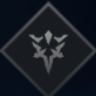
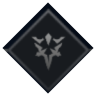
Runas: página em uma coluna, emblemas em losango e ícones revalidados
- Visão em lista unificada: cada posição com ícone e descrição completa, clicável
- Escolha de árvore com emblemas e runas coloridos
- Emblemas das árvores recortados com as pontas e transparentes fora do losango
- Ícones de runas e feitiços servidos com ETag (sem cache velho)

diff --git a/frontend/src/components/RuneEditor.jsx b/frontend/src/components/RuneEditor.jsx
@@ -102,53 +102,39 @@ function ListView({ page, picking, setPicking, set, setPrimaryRune, setPrimaryTr
   const selectedName = picking === 'keystone' ? page.keystone : picking === 'secondary' ? page.secondaryRune
     : picking?.startsWith('p') ? page.primaryRunes[Number(picking.slice(1))] : null;
 
-  return (
-    <div className="rune-list-view">
-      <div className="rune-rail">
-        <button className={`rail-rune${picking === 'keystone' ? ' picking' : ''}`} onClick={() => setPicking('keystone')} title={tip(slots[0].rune) || t('runes.keystone')}>
-          <RuneImg rune={slots[0].rune} on size={64} />
+  // The page: one column like the game's, each slot with its icon and full description (click to change it).
+  if (!picking) {
+    const row = (s, label) => (
+      <button key={s.key} className="page-row" onClick={() => setPicking(s.key)} title={t('runes.change')}>
+        <RuneImg rune={s.rune} on size={s.key === 'keystone' ? 72 : 60} />
+        <span className="rune-row-text">
+          <span className="rune-name">{s.rune ? s.rune.name : label}{s.rune?.marker && <Marker m={s.rune.marker} />}</span>
+          {s.rune?.tags && <span className="rune-tags">{s.rune.tags}</span>}
+          {s.rune && <span className="rune-desc">{s.rune.text}</span>}
+        </span>
+      </button>
+    );
+    const group = (tree, which, rows) => (
+      <div className="page-group">
+        <button className="page-diamond" onClick={() => setPicking(which)} title={t('runes.changeTree')}>
+          <TreeImg tree={tree} on size={52} />
+          <small>{tree?.name}</small>
         </button>
-        <div className="rail-tree">
-          <button className={`rail-diamond${picking === 'primaryTree' ? ' picking' : ''}`} onClick={() => setPicking('primaryTree')} title={primary?.name}>
-            <TreeImg tree={primary} on />
-          </button>
-          <div className="rail-col">
-            {[1, 2, 3].map((k) => (
-              <button key={k} className={`rail-rune${picking === `p${k - 1}` ? ' picking' : ''}`} onClick={() => setPicking(`p${k - 1}`)} title={tip(slots[k].rune) || `${page.primary} ${k}`}>
-                <RuneImg rune={slots[k].rune} on size={52} />
-              </button>
-            ))}
-          </div>
-        </div>
-        <div className="rail-tree">
-          <button className={`rail-diamond${picking === 'secondaryTree' ? ' picking' : ''}`} onClick={() => setPicking('secondaryTree')} title={secondary?.name}>
-            <TreeImg tree={secondary} on />
-          </button>
-          <div className="rail-col">
-            <button className={`rail-rune${picking === 'secondary' ? ' picking' : ''}`} onClick={() => setPicking('secondary')} title={tip(slots[4].rune) || page.secondary}>
-              <RuneImg rune={slots[4].rune} on size={52} />
-            </button>
-          </div>
-        </div>
+        <div className="page-group-rows">{rows}</div>
       </div>
+    );
+    return (
+      <div className="rune-page">
+        {row(slots[0], t('runes.empty'))}
+        {group(primary, 'primaryTree', [1, 2, 3].map((k) => row(slots[k], t('runes.emptyRow', { n: k }))))}
+        {group(secondary, 'secondaryTree', row(slots[4], t('runes.empty')))}
+      </div>
+    );
+  }
 
+  return (
+    <div className="rune-picker">
       <div className="rune-panel">
-        {!picking && (
-          <ul className="rune-summary">
-            {slots.map((s, i) => (
-              <li key={s.key} className={i === 1 || i === 4 ? 'group-start' : ''}>
-                <button className="rune-row" onClick={() => setPicking(s.key)}>
-                  <RuneImg rune={s.rune} on size={44} />
-                  <span className="rune-row-text">
-                    <span className="rune-name">{s.rune ? s.rune.name : t('runes.empty')}</span>
-                    {s.rune?.tags && <span className="rune-tags">{s.rune.tags}</span>}
-                    {s.rune && <span className="rune-desc clamp">{s.rune.text}</span>}
-                  </span>
-                </button>
-              </li>
-            ))}
-          </ul>
-        )}
         {(picking === 'primaryTree' || picking === 'secondaryTree') && (
           <>
             <h3 className="rune-pick-title">{t('runes.pickTree')} <span className="rune-hl">{t('runes.traits')}</span>:</h3>

diff --git a/frontend/src/styles.css b/frontend/src/styles.css
@@ -546,6 +546,19 @@ table.timeline td small.dr { display: block; font-size: 10px; color: var(--muted
 .view-toggle button.active { background: #2a6db3; color: #fff; }
 
 .rune-list-view { display: grid; grid-template-columns: 170px 1fr; gap: 24px; max-width: 1200px; margin: 0 auto; }
+.rune-page, .rune-picker { max-width: 1100px; margin: 0 auto; }
+.rune-page { display: flex; flex-direction: column; gap: 4px; }
+.page-row {
+  display: flex; gap: 18px; align-items: center; width: 100%; padding: 10px 14px; text-align: left;
+  background: none; border: 1px solid transparent; border-radius: 6px;
+}
+.page-row:hover:not(:disabled) { background: rgba(255, 255, 255, .04); border-color: var(--border); }
+.page-row .rune-desc { max-width: 900px; }
+.page-group { display: grid; grid-template-columns: 96px 1fr; align-items: center; border-top: 1px solid var(--border); padding-top: 6px; margin-top: 4px; }
+.page-diamond { display: flex; flex-direction: column; align-items: center; gap: 4px; background: none; border: none; padding: 6px; }
+.page-diamond small { font-size: 11px; color: var(--text-2); letter-spacing: .04em; }
+.page-diamond:hover:not(:disabled) .tree-img { filter: drop-shadow(0 0 6px var(--gold-bright)); }
+.page-group-rows { display: flex; flex-direction: column; gap: 2px; border-left: 2px solid rgba(200, 170, 110, .25); padding-left: 8px; }
 .rune-rail { display: flex; flex-direction: column; align-items: center; gap: 14px; padding-top: 6px; }
 .rail-rune, .rail-diamond, .rail-spell { background: none; border: none; padding: 2px; border-radius: 50%; }
 .rail-rune.picking .rune-img, .rail-spell.picking img { outline: 2px solid var(--gold-bright); outline-offset: 2px; }

diff --git a/frontend/src/i18n.js b/frontend/src/i18n.js
@@ -223,6 +223,9 @@ const EN = {
   'runes.pickTree': 'CHOOSE 1 SET OF',
   'runes.traits': 'TRAITS',
   'runes.empty': 'Choose a rune',
+  'runes.emptyRow': 'Choose the row {n} rune',
+  'runes.change': 'Click to change',
+  'runes.changeTree': 'Change the tree',
   'runes.modeled': 'Counted in the calculation',
   'runes.options': 'Rune values:',
   'runes.rune': 'Rune',
@@ -522,6 +525,9 @@ const PT = {
   'runes.pickTree': 'ESCOLHA 1 CONJUNTO DE',
   'runes.traits': 'CARACTERÍSTICAS',
   'runes.empty': 'Escolha uma runa',
+  'runes.emptyRow': 'Escolha a runa da linha {n}',
+  'runes.change': 'Clique para trocar',
+  'runes.changeTree': 'Trocar a árvore',
   'runes.modeled': 'Considerado no cálculo',
   'runes.options': 'Valores das runas:',
   'runes.rune': 'Runa',

diff --git a/frontend/src/runes.js b/frontend/src/runes.js
@@ -8,7 +8,7 @@ export const runeCatalog = () => catalog;
 export const runeIcon = (rune, grey = false) =>
   (rune ? `/api/runes/icons/${grey ? rune.iconGrey : rune.icon}` : null);
 export const treeIcon = (tree, grey = false) =>
-  (tree ? `/api/runes/icons/${grey ? tree.iconGrey : tree.icon}` : null);
+  (tree ? `/api/runes/icons/${grey ? tree.iconGrey : tree.icon}?v=2` : null); // v2: diamond with transparent corners
 export const spellIcon = (spell) => (spell ? `/api/spells/icons/${spell.icon}` : null);
 
 export const findRune = (name) =>

diff --git a/backend/src/main/java/com/ornnplanner/api/RuneController.java b/backend/src/main/java/com/ornnplanner/api/RuneController.java
@@ -7,12 +7,15 @@ import org.springframework.http.CacheControl;
 import org.springframework.http.HttpStatus;
 import org.springframework.http.MediaType;
 import org.springframework.http.ResponseEntity;
+import org.springframework.util.DigestUtils;
 import org.springframework.web.bind.annotation.GetMapping;
 import org.springframework.web.bind.annotation.PathVariable;
 import org.springframework.web.bind.annotation.RestController;
+import org.springframework.web.context.request.WebRequest;
 import org.springframework.web.server.ResponseStatusException;
 
-import java.util.concurrent.TimeUnit;
+import java.io.IOException;
+import java.io.InputStream;
 import java.util.regex.Pattern;
 
 /** Runes and summoner spells (catalog and icons cropped from the game, bundled in {@code seed/runas}, {@code seed/feiticos}). */
@@ -33,16 +36,16 @@ public class RuneController {
     }
 
     @GetMapping("/api/runes/icons/{file}")
-    public ResponseEntity<Resource> runeIcon(@PathVariable String file) {
-        return icon("seed/runas/", file);
+    public ResponseEntity<Resource> runeIcon(@PathVariable String file, WebRequest request) throws IOException {
+        return icon("seed/runas/", file, request);
     }
 
     @GetMapping("/api/spells/icons/{file}")
-    public ResponseEntity<Resource> spellIcon(@PathVariable String file) {
-        return icon("seed/feiticos/", file);
+    public ResponseEntity<Resource> spellIcon(@PathVariable String file, WebRequest request) throws IOException {
+        return icon("seed/feiticos/", file, request);
     }
 
-    private static ResponseEntity<Resource> icon(String dir, String file) {
+    private static ResponseEntity<Resource> icon(String dir, String file, WebRequest request) throws IOException {
         if (!FILE.matcher(file).matches()) {
             throw new ResponseStatusException(HttpStatus.NOT_FOUND);
         }
@@ -50,7 +53,15 @@ public class RuneController {
         if (!img.exists()) {
             throw new ResponseStatusException(HttpStatus.NOT_FOUND);
         }
-        return ResponseEntity.ok().contentType(MediaType.IMAGE_PNG)
-                .cacheControl(CacheControl.maxAge(1, TimeUnit.HOURS)).body(img);
+        // Revalidated every time (cheap 304 through the ETag), so redone icons show up without a hard reload.
+        String etag;
+        try (InputStream in = img.getInputStream()) {
+            etag = "\"" + DigestUtils.md5DigestAsHex(in) + "\"";
+        }
+        CacheControl cache = CacheControl.noCache();
+        if (request.checkNotModified(etag)) {
+            return ResponseEntity.status(HttpStatus.NOT_MODIFIED).cacheControl(cache).eTag(etag).build();
+        }
+        return ResponseEntity.ok().contentType(MediaType.IMAGE_PNG).cacheControl(cache).eTag(etag).body(img);
     }
 }
